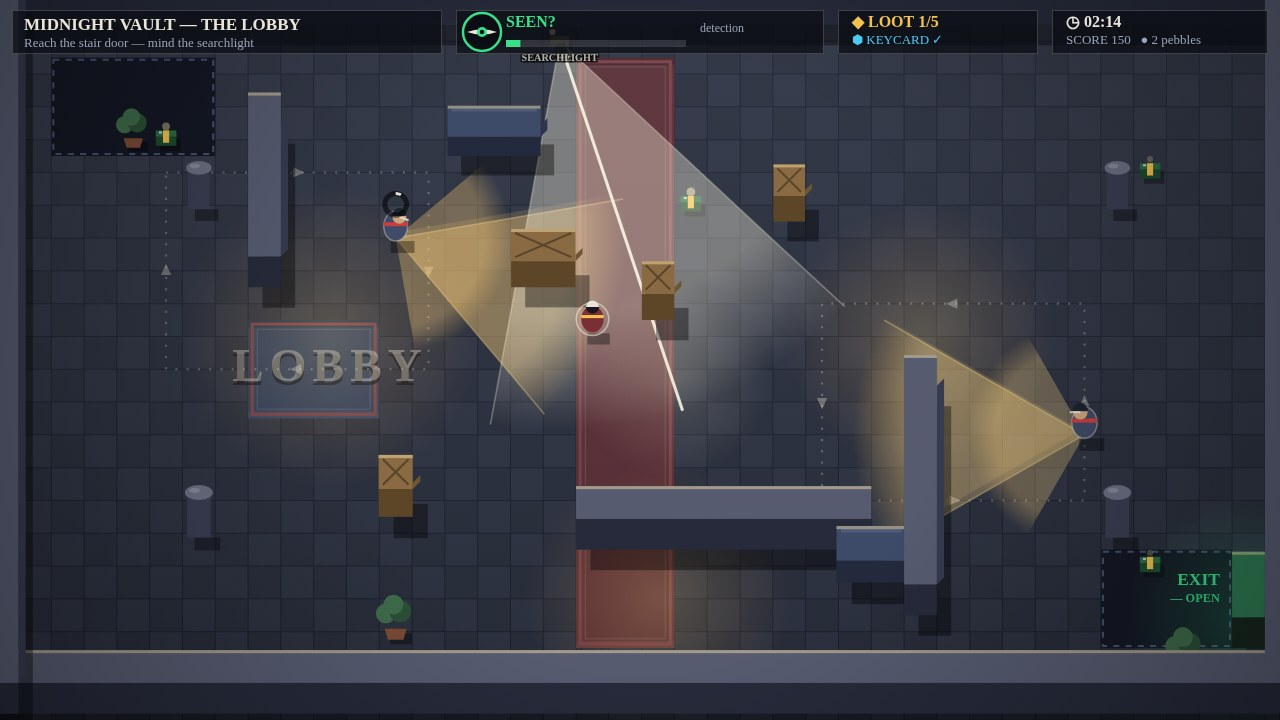
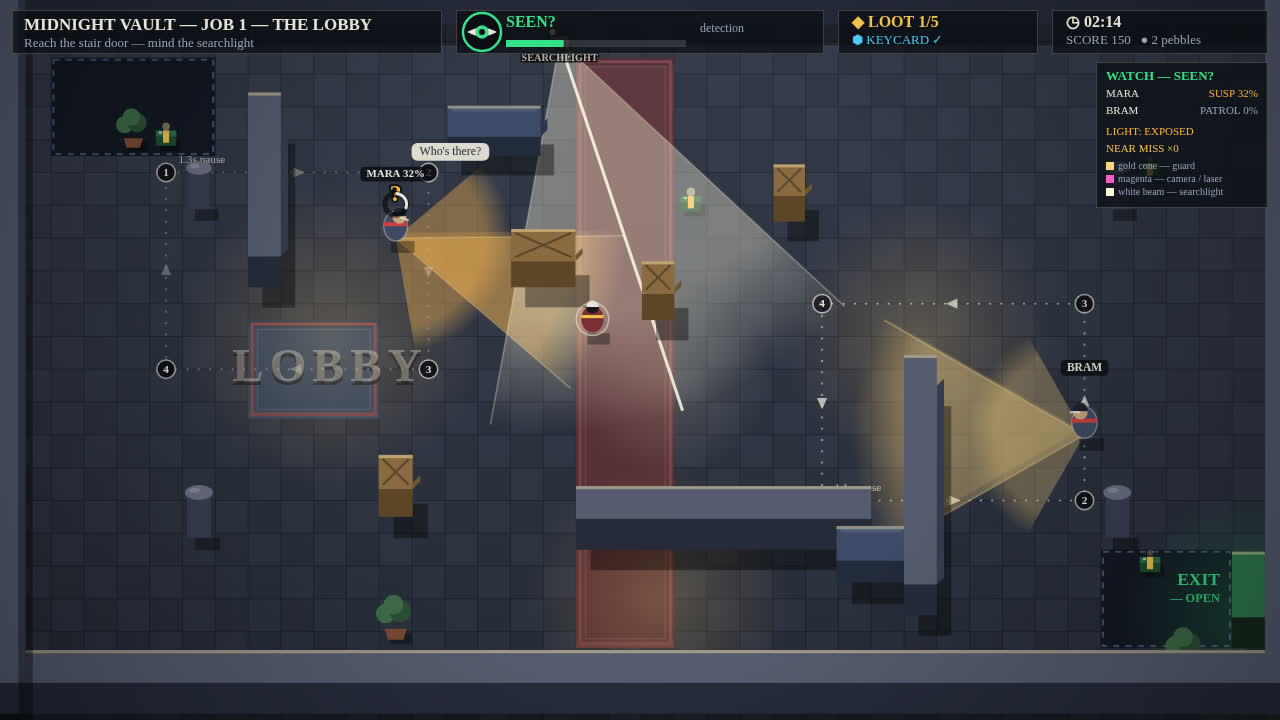
Heist v2: watch rail, named guards + barks, numbered patrols, near-miss label, job framing
Top-100 stealth patterns, adapted only: right-hand WATCH rail (banner,
per-guard state + %, light, near-miss count, beam legend), guards named
MARA/BRAM/IVAN/PETRA/OSKAR/DORIN/SABLE/VIK/REN with suspicion % labels and
state barks, numbered patrol waypoints with pause times, NEAR MISS callout
+ counter, rooms framed as JOB 1/2/3 with a title-screen job list.
Playtest 6/6 identical to v1 (WIN t=50.7 score=2571, determinism
byte-identical); screenshots re-rendered from the game's own code.

diff --git a/game/src/hud.js b/game/src/hud.js
@@ -283,6 +283,15 @@ export function drawHud(ctx, world, screen, t) {
   }
   ctx.restore();
 
+  // The watch panel: the right-hand rail the judge reads without playing —
+  // the detection banner, every guard by name with state and %, the light
+  // the thief stands in, the near-miss count, and the legend for the beams.
+  const a4 = popIn(intro, staggerDelay(4, 0.07));
+  ctx.save();
+  ctx.globalAlpha = a4;
+  drawWatchPanel(ctx, world, t);
+  ctx.restore();
+
   // Camera chip: a small red flag under the eye panel while a camera beam
   // holds the thief — the warning names the watcher, not just the meter.
   if (world.camSpotted && !world.alarm) {
@@ -358,6 +367,18 @@ export function drawHud(ctx, world, screen, t) {
     ctx.lineWidth = 10;
     ctx.strokeRect(5, 5, VIEW.width - 10, VIEW.height - 10);
   }
+  // Near-miss callout: for three seconds after a guard calms down
+  // unalarmed, the frame says so — a ghost run is a labelled event,
+  // not a silent meter falling.
+  if (world.nearMissT > 0) {
+    ctx.save();
+    ctx.globalAlpha = Math.min(1, world.nearMissT);
+    ctx.fillStyle = '#f2c14e';
+    ctx.font = 'bold 18px Georgia, serif';
+    ctx.textAlign = 'center';
+    ctx.fillText(`NEAR MISS ×${world.nearMisses} — THEY LOST YOU`, VIEW.width / 2, 124);
+    ctx.restore();
+  }
   // Alarm banner: full-width, high contrast, impossible to miss. It slides
   // down from the top bar in 0.38 s (ease-out) instead of appearing flat.
   if (world.alarm) {
@@ -402,6 +423,56 @@ export function drawHud(ctx, world, screen, t) {
   }
 }
 
+function drawWatchPanel(ctx, world, t) {
+  const x = 1096;
+  const y = 62;
+  const w = 172;
+  const rows = world.guards.length;
+  const h = 30 + rows * 17 + 16 + 15 + 3 * 13 + 12;
+  const stateWord = (g) => ({ patrol: 'PATROL', suspicious: 'SUSP', investigate: 'INVEST', search: 'SEARCH', alert: 'ALERT', return: 'RETURN' })[g.state] ?? 'PATROL';
+  const stateColor = (g) => (g.state === 'alert' ? '#ff4a3c' : g.state === 'suspicious' ? '#ffb43c' : g.state === 'investigate' || g.state === 'search' ? '#ffd27a' : COLORS.hudDim);
+  panel(ctx, x, y, w, h, 1);
+  const banner = world.alarm ? 'ALARM' : world.suspicion >= 0.45 ? 'SUSPICIOUS' : world.suspicion > 0.05 ? 'SEEN?' : 'UNSEEN';
+  ctx.fillStyle = eyeColor(world.suspicion);
+  ctx.font = 'bold 13px Georgia, serif';
+  ctx.textAlign = 'left';
+  ctx.textBaseline = 'middle';
+  ctx.fillText(`WATCH — ${banner}`, x + 10, y + 15);
+  let ry = y + 32;
+  ctx.font = '11px Georgia, serif';
+  for (const g of world.guards) {
+    ctx.fillStyle = '#e8e4d8';
+    ctx.fillText(g.name, x + 10, ry);
+    ctx.fillStyle = stateColor(g);
+    ctx.textAlign = 'right';
+    ctx.fillText(`${stateWord(g)} ${Math.round(g.suspicion * 100)}%`, x + w - 10, ry);
+    ctx.textAlign = 'left';
+    ry += 17;
+  }
+  ry += 4;
+  const light = world.inDuct ? 'IN DUCT — UNSEEN' : world.player.inShadow ? 'IN SHADOW' : 'EXPOSED';
+  ctx.fillStyle = world.inDuct || world.player.inShadow ? '#37e08a' : '#ffb43c';
+  ctx.fillText(`LIGHT: ${light}`, x + 10, ry);
+  ry += 17;
+  ctx.fillStyle = '#f2c14e';
+  ctx.fillText(`NEAR MISS ×${world.nearMisses}`, x + 10, ry);
+  ry += 17;
+  ctx.fillStyle = COLORS.hudDim;
+  ctx.font = '10px Georgia, serif';
+  const legend = [
+    ['#ffd682', 'gold cone — guard'],
+    ['#ff5ac8', 'magenta — camera / laser'],
+    ['#fff6d8', 'white beam — searchlight'],
+  ];
+  for (const [col, text] of legend) {
+    ctx.fillStyle = col;
+    ctx.fillRect(x + 10, ry - 4, 8, 8);
+    ctx.fillStyle = COLORS.hudDim;
+    ctx.fillText(text, x + 22, ry);
+    ry += 13;
+  }
+}
+
 function drawCenter(ctx, title, sub, t, fade = 1) {
   ctx.save();
   ctx.globalAlpha = clamp(fade, 0, 1);
@@ -432,18 +503,24 @@ function drawTitle(ctx, world, t) {
   ctx.font = 'bold 64px Georgia, serif';
   ctx.textAlign = 'center';
   ctx.textBaseline = 'middle';
-  ctx.fillText('MIDNIGHT VAULT', VIEW.width / 2, 250);
+  ctx.fillText('MIDNIGHT VAULT', VIEW.width / 2, 236);
   ctx.fillStyle = COLORS.hudText;
   ctx.font = '20px Georgia, serif';
-  ctx.fillText('One night. Three rooms. One vault. Get in, crack it, get out.', VIEW.width / 2, 308);
+  ctx.fillText('One night. Three rooms. One vault. Get in, crack it, get out.', VIEW.width / 2, 292);
   ctx.fillStyle = COLORS.hudDim;
   ctx.font = '16px Georgia, serif';
-  ctx.fillText('WASD / arrows — move      Shift — sneak      SPACE — crack the vault      Click — throw a pebble      P — pause', VIEW.width / 2, 352);
+  ctx.fillText('WASD / arrows — move      Shift — sneak      SPACE — crack the vault      Click — throw a pebble      P — pause', VIEW.width / 2, 336);
+  // The job list: three jobs, one line each — the campaign, on the title screen.
+  ctx.fillStyle = COLORS.hudText;
+  ctx.font = '16px Georgia, serif';
+  ctx.fillText('JOB 1 — THE LOBBY · learn the patrols', VIEW.width / 2, 372);
+  ctx.fillText('JOB 2 — THE GALLERY · time the laser grid', VIEW.width / 2, 394);
+  ctx.fillText('JOB 3 — THE VAULT · crack the dial, run for the van', VIEW.width / 2, 416);
   ctx.fillStyle = '#e8e4d8';
   ctx.font = 'bold 18px Georgia, serif';
   const blink = 0.6 + 0.4 * Math.sin(titleClock * 3);
   ctx.globalAlpha = rise * blink;
-  ctx.fillText('— press ENTER to begin —', VIEW.width / 2, 408);
+  ctx.fillText('— press ENTER to begin —', VIEW.width / 2, 462);
   ctx.restore();
 }
 

diff --git a/game/src/levels.js b/game/src/levels.js
@@ -20,8 +20,8 @@ const BORDER = [
 
 export const LEVELS = [
   {
-    name: 'THE LOBBY',
-    sub: 'Room 1 — learn the patrols',
+    name: 'JOB 1 — THE LOBBY',
+    sub: 'Job 1 of 3 — learn the patrols',
     hint: 'A skylight searchlight sweeps the lobby. Time the beam, use the shadows — find the manager\u2019s keycard, then slip out the stair door.',
     walls: [
       ...BORDER,
@@ -48,8 +48,8 @@ export const LEVELS = [
       { x: 10, y: 11, text: 'LOBBY' },
     ],
     guards: [
-      { path: [p(5, 5), p(13, 5), p(13, 11), p(5, 11)], pause: 1.3 },
-      { path: [p(25, 15), p(33, 15), p(33, 9), p(25, 9)], pause: 1.1 },
+      { name: 'MARA', path: [p(5, 5), p(13, 5), p(13, 11), p(5, 11)], pause: 1.3 },
+      { name: 'BRAM', path: [p(25, 15), p(33, 15), p(33, 9), p(25, 9)], pause: 1.1 },
     ],
     loot: [p(20, 10), p(5, 4), p(35, 17), p(35, 5), p(21, 6)], // a fifth bundle on the red runner, inside the searchlight's sweep — crossing the light pays
     keycard: p(26, 17),
@@ -57,8 +57,8 @@ export const LEVELS = [
     player: p(3, 19),
   },
   {
-    name: 'THE GALLERY',
-    sub: 'Room 2 — the marble hall',
+    name: 'JOB 2 — THE GALLERY',
+    sub: 'Job 2 of 3 — the marble hall',
     hint: 'The gallery is wide open. Use the display cases and the blue carpet — watch the middle guard, and time the laser grid on the carpet.',
     walls: [
       ...BORDER,
@@ -78,9 +78,9 @@ export const LEVELS = [
       { x: 33, y: 5, text: 'EAST WING' },
     ],
     guards: [
-      { path: [p(4, 4), p(10, 4), p(10, 8), p(4, 8)], pause: 1.2 },
-      { path: [p(16, 16), p(24, 16), p(24, 8), p(16, 8)], pause: 1.0 },
-      { path: [p(28, 4), p(36, 4), p(36, 18), p(28, 18)], pause: 0.8 },
+      { name: 'IVAN', path: [p(4, 4), p(10, 4), p(10, 8), p(4, 8)], pause: 1.2 },
+      { name: 'PETRA', path: [p(16, 16), p(24, 16), p(24, 8), p(16, 8)], pause: 1.0 },
+      { name: 'OSKAR', path: [p(28, 4), p(36, 4), p(36, 18), p(28, 18)], pause: 0.8 },
     ],
     // Three laser tripwires across the blue carpet — vertical beams at tile
     // x 28, 30 and 32, spanning the carpet band (tiles y 9–11). They blink
@@ -106,8 +106,8 @@ export const LEVELS = [
     player: p(2, 20),
   },
   {
-    name: 'THE VAULT',
-    sub: 'Room 3 — the last door',
+    name: 'JOB 3 — THE VAULT',
+    sub: 'Job 3 of 3 — the last door',
     hint: 'Four guards, two cameras, and the vault itself. Crack the dial with the keycard — three tumblers, SPACE on the green — then grab the gold and run for the van before the police arrive.',
     walls: [
       ...BORDER,
@@ -141,10 +141,10 @@ export const LEVELS = [
       { x: 6, y: 12, text: 'WEST WING' },
     ],
     guards: [
-      { path: [p(4, 8), p(8, 8), p(8, 16), p(4, 16)], pause: 1.1 },
-      { path: [p(14, 4), p(18, 4), p(18, 10), p(14, 10)], pause: 1.0 },
-      { path: [p(24, 14), p(30, 14), p(30, 18), p(24, 18)], pause: 0.9 },
-      { path: [p(34, 6)], pause: 2.6, scan: true }, // the watcher: stands, scans, turns away
+      { name: 'DORIN', path: [p(4, 8), p(8, 8), p(8, 16), p(4, 16)], pause: 1.1 },
+      { name: 'SABLE', path: [p(14, 4), p(18, 4), p(18, 10), p(14, 10)], pause: 1.0 },
+      { name: 'VIK', path: [p(24, 14), p(30, 14), p(30, 18), p(24, 18)], pause: 0.9 },
+      { name: 'REN', path: [p(34, 6)], pause: 2.6, scan: true }, // the watcher: stands, scans, turns away
     ],
     // Two wall cameras guard the vault hall. CAM-1 hangs just under the
     // north vault wall and sweeps the hall south; CAM-2 sits on the east

diff --git a/game/src/world.js b/game/src/world.js
@@ -61,6 +61,8 @@ export function createWorld(seed) {
     alarmFlash: 0,
     suspicion: 0, // the highest suspicion of any guard — the HUD eye reads this
     suspicionFlash: 0, // 1 right after a near miss crosses the suspect line
+    nearMisses: 0, // run total: guards that got suspicious, then calmed down unalarmed
+    nearMissT: 0, // seconds the NEAR MISS callout stays up after one is counted
     pebbles: 3,
     shake: 0, // screen-shake trauma, 0..1 — decays, never snaps back
     camX: 640, // the camera drift: eases toward the thief, never snaps
@@ -114,6 +116,8 @@ export function loadLevel(world, index) {
 export function startGame(world) {
   world.score = 0;
   world.time = 0;
+  world.nearMisses = 0;
+  world.nearMissT = 0;
   loadLevel(world, 0);
   world.screen = SCREEN_PLAY;
   world.screenT = 0;
@@ -219,6 +223,7 @@ export function stepWorld(world, dt, input, audio) {
   world.time += dt;
   world.screenT += dt;
   if (world.suspicionFlash > 0) world.suspicionFlash = Math.max(0, world.suspicionFlash - dt * 1.6);
+  if (world.nearMissT > 0) world.nearMissT = Math.max(0, world.nearMissT - dt);
   if (world.alarmFlash > 0) world.alarmFlash = Math.max(0, world.alarmFlash - dt * 1.2);
   if (world.shake > 0) world.shake = Math.max(0, world.shake - SHAKE.decayPerSec * dt);
 
@@ -341,6 +346,8 @@ export function stepWorld(world, dt, input, audio) {
         g.lastKnown = heard.tile;
         g.state = 'investigate';
         g.stateT = 0;
+        g.bark = 'Did you hear that?';
+        g.barkT = 2.5;
       }
     }
     const near = Math.hypot(g.x - p.x, g.y - p.y);
@@ -356,12 +363,16 @@ export function stepWorld(world, dt, input, audio) {
       if (before < GUARD.suspectAt && g.suspicion >= GUARD.suspectAt && g.state === 'patrol') {
         g.state = 'suspicious';
         g.stateT = 0;
+        g.bark = "Who's there?";
+        g.barkT = 2.5;
         world.suspicionFlash = 1;
         world.shake = Math.max(world.shake, SHAKE.suspect); // the near miss jolts
         spawnRing(world.particles, g.x, g.y, 'rgba(255, 180, 60, 0.85)');
         world.events.push('suspect');
       }
       if (g.suspicion >= GUARD.alertAt && g.state !== 'alert') {
+        g.bark = 'Stop right there!';
+        g.barkT = 2.5;
         raiseAlarm(world, g, audio);
       }
     } else if (g.state === 'patrol' || g.state === 'suspicious' || g.state === 'search') {
@@ -370,6 +381,13 @@ export function stepWorld(world, dt, input, audio) {
       // is real and not just a patrol-state accident.
       g.suspicion = Math.max(0, g.suspicion - GUARD.fallPerSec * dt);
       if (g.state === 'suspicious' && g.suspicion < 0.1) {
+        // The guard was suspicious, looked, found nothing, and calmed down
+        // without ever raising the alarm: that is a near miss, and it is
+        // worth counting — a ghost run is measured in the ones that got away.
+        world.nearMisses += 1;
+        world.nearMissT = 3;
+        g.bark = "Must've been nothing.";
+        g.barkT = 2.5;
         g.state = 'return';
         g.stateT = 0;
       }

diff --git a/game/src/render.js b/game/src/render.js
@@ -238,6 +238,30 @@ function paintRoutes(ctx, world) {
       ctx.fill();
       ctx.restore();
     }
+    // Numbered waypoints: the route is learnable at a glance — 1, 2, 3, 4
+    // in patrol order, with the pause at each stop printed once beside
+    // the first waypoint. A route you can number is a route you can plan.
+    ctx.setLineDash([]);
+    for (let i = 0; i < g.path.length; i += 1) {
+      const w = g.path[i];
+      ctx.fillStyle = 'rgba(10, 12, 20, 0.85)';
+      ctx.beginPath();
+      ctx.arc(w.x, w.y, 9, 0, Math.PI * 2);
+      ctx.fill();
+      ctx.strokeStyle = 'rgba(232, 228, 216, 0.7)';
+      ctx.lineWidth = 1.5;
+      ctx.stroke();
+      ctx.fillStyle = '#e8e4d8';
+      ctx.font = 'bold 11px Georgia, serif';
+      ctx.textAlign = 'center';
+      ctx.textBaseline = 'middle';
+      ctx.fillText(String(i + 1), w.x, w.y + 0.5);
+    }
+    ctx.fillStyle = 'rgba(232, 228, 216, 0.75)';
+    ctx.font = '11px Georgia, serif';
+    ctx.textAlign = 'left';
+    ctx.fillText(`${g.pause.toFixed(1)}s pause`, g.path[0].x + 12, g.path[0].y - 12);
+    ctx.setLineDash([2, 9]);
   }
   ctx.setLineDash([]);
 }
@@ -857,6 +881,37 @@ function paintGuard(ctx, g, t) {
     ctx.beginPath();
     ctx.arc(x, y - 34, 11, -Math.PI / 2, -Math.PI / 2 + g.suspicion * Math.PI * 2);
     ctx.stroke();
+  }
+  // Name + suspicion %: every guard is a person with a number, so the
+  // judge reads the threat without playing — MARA 32%, not an anonymous
+  // cone. The % only shows once the guard has noticed something.
+  const label = g.suspicion > 0.05
+    ? `${g.name} ${Math.round(g.suspicion * 100)}%`
+    : g.name;
+  ctx.font = 'bold 11px Georgia, serif';
+  const lw = ctx.measureText(label).width + 12;
+  ctx.fillStyle = 'rgba(10, 12, 20, 0.8)';
+  ctx.beginPath();
+  ctx.roundRect(x - lw / 2, y - 72, lw, 15, 4);
+  ctx.fill();
+  ctx.fillStyle = g.suspicion >= GUARD.suspectAt ? '#ffb43c' : '#e8e4d8';
+  ctx.textAlign = 'center';
+  ctx.textBaseline = 'middle';
+  ctx.fillText(label, x, y - 64);
+  // Bark bubble: the guard's last line, while it lasts — a short, plain
+  // sentence that says what the guard thinks just happened.
+  if (g.barkT > 0 && g.bark) {
+    ctx.font = '12px Georgia, serif';
+    const bw = ctx.measureText(g.bark).width + 16;
+    const bx = x + 16;
+    const by = y - 96;
+    ctx.fillStyle = 'rgba(232, 228, 216, 0.95)';
+    ctx.beginPath();
+    ctx.roundRect(bx, by, bw, 18, 6);
+    ctx.fill();
+    ctx.fillStyle = '#1d2333';
+    ctx.textAlign = 'left';
+    ctx.fillText(g.bark, bx + 8, by + 9.5);
   }
 }
 

diff --git a/game/src/shots.js b/game/src/shots.js
@@ -62,10 +62,16 @@ export function stageCover(world) {
   // enough to read, far enough that he is unseen.
   poseSearchlight(world.searchlights[0], -0.37);
   // The patrol guard stands clear of the wall, cone sweeping south-east
-  // straight over the crates Rook is crouched behind.
-  guardAt(world, 0, 12 * 32 + 16, 7 * 32 + 16, 0.35, 'patrol', 0.08);
+  // straight over the crates Rook is crouched behind — and he has just
+  // noticed something: MARA is suspicious, "?" over her head, bark up,
+  // meter at 32%. The cover frame shows the whole detection language at
+  // once: a named guard, a number, a question, and a thief unseen — the
+  // near miss, frozen a beat before it resolves.
+  guardAt(world, 0, 12 * 32 + 16, 7 * 32 + 16, 0.35, 'suspicious', 0.32);
+  world.guards[0].bark = "Who's there?";
+  world.guards[0].barkT = 2.5;
   guardAt(world, 1, 33 * 32 + 16, 13 * 32 + 16, Math.PI, 'patrol', 0);
-  world.suspicion = 0.08;
+  world.suspicion = 0.32;
   return { screen: SCREEN_PLAY };
 }
 

diff --git a/game/src/guards.js b/game/src/guards.js
@@ -35,6 +35,9 @@ export function createGuard(def, index) {
     : -Math.PI / 2;
   return {
     index,
+    name: def.name ?? 'GUARD',
+    bark: '', // the guard's last spoken line — a state change, never random
+    barkT: 0, // seconds the bark stays up, decayed by the step below
     x: first.x,
     y: first.y,
     facing: startFacing,
@@ -65,6 +68,7 @@ export function createGuard(def, index) {
 export function stepGuard(g, dt, world) {
   g.stepped = false;
   g.stateT += dt;
+  if (g.barkT > 0) g.barkT = Math.max(0, g.barkT - dt);
   g.bob += dt * (g.state === 'alert' ? 11 : 7);
   g.coneAngle = turnToward(g.coneAngle, g.facing, dt * CONE_LAG);
   switch (g.state) {
